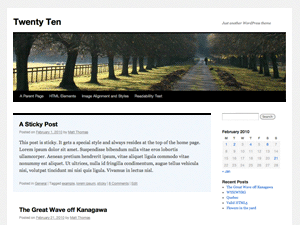
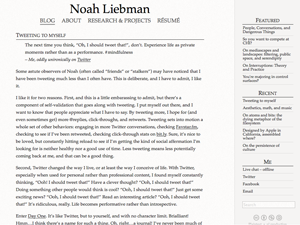
Dynamic menu system, separate files for sidebar and loop. Author, screenshot.

diff --git a/style.css b/style.css
@@ -1,3 +1,14 @@
+/*
+Theme Name: Plaintext
+Theme URI: https://github.com/Noleli/Plaintext/
+Author: Noah Liebman
+Author URI: http://noahliebman.com
+Version: 1.1
+License: Creative Commons Attribution Noncommercial Share Alike
+License URI: http://creativecommons.org/licenses/by-nc-sa/3.0/us/
+Tags: light, white, black, two-columns, right-sidebar, fixed-width, custom-menu, editor-style, theme-options 
+*/
+
 body
 {
 	background: #FCFBFA;
@@ -219,26 +230,26 @@ a
 	text-decoration: none;
 }
 
-#head ul.pages
+#head ul.menu
 {
 	text-align: center;
 	margin-top: 5px;
 	margin-bottom: 5px;
 }
 
-#head ul.pages li
+#head ul.menu li
 {
 	display: inline;
 	padding-right: 18px;
 }
 
-#head ul.pages li:last-child
+#head ul.menu li:last-child
 {
 	display: inline;
 	padding-right: 0px;
 }
 
-#head ul.pages li a
+#head ul.menu li a
 {
 	color: #595959;
 	text-decoration: none;
@@ -255,23 +266,23 @@ a
   font-variant: small-caps;
 }
 
-#head ul#parent_pages li a
+#head ul#menu-primary li a
 {
 	text-transform: uppercase;
 	font-size: 18px;
 }
 
-#head ul.pages li.current_page_item a
+#head ul.menu li.current_page_item a
 {
 	border-bottom: 2px solid #949494;
 }
 
-#head ul#parent_pages li.current_page_item a, #head ul.pages li.current_page_ancestor a
+#head ul#parent_pages li.current_page_item a, #head ul.menu li.current_page_ancestor a
 {
 	border-bottom: 3px solid #949494;
 }
 
-#head ul.pages li a:hover
+#head ul.menu li a:hover
 {
 	border-bottom: 3px solid #BABABA;
 }

diff --git a/loop.php b/loop.php
@@ -1,0 +1,78 @@
+<?php
+/**
+ * The loop that displays posts.
+ *
+ * The loop displays the posts and the post content.  See
+ * http://codex.wordpress.org/The_Loop to understand it and
+ * http://codex.wordpress.org/Template_Tags to understand
+ * the tags used in it.
+ *
+ * This can be overridden in child themes with loop.php or
+ * loop-template.php, where 'template' is the loop context
+ * requested by a template. For example, loop-index.php would
+ * be used if it exists and we ask for the loop with:
+ * <code>get_template_part( 'loop', 'index' );</code>
+ *
+ * @package WordPress
+ * @subpackage Twenty_Ten
+ * @since Twenty Ten 1.0
+ */
+?>
+
+<?php /* Display navigation to next/previous pages when applicable */ ?>
+
+<div class="grid_3 push_9">
+			<?php get_sidebar(); ?>
+		</div><!-- end grid_3 -->
+		<div class="grid_8 suffix_1 pull_3">
+			<div id="content_area">
+				<div id="head">
+					<h1><a href="<?php echo home_url( '/' ); ?>" title="<?php echo esc_attr( get_bloginfo( 'name', 'display' ) ); ?>" rel="home"><?php bloginfo( 'name' ); ?></a></h1>
+					<?php wp_nav_menu( array( 'container_class' => 'menu-header', 'theme_location' => 'primary' ) ); ?>
+					
+				</div><!-- end head -->
+				
+				<div id="content">
+					<?php while ( have_posts() ) : the_post(); ?>
+						<h1><a href="<?php the_permalink(); ?>"><?php the_title(); ?></a></h1>
+						<?php the_content(); ?>
+						
+						<?php if(!$is_page) : ?>
+							<div class="post_footer">
+								<div class="grid_2 alpha suffix_4">
+									<p class="date"><a href="<?php the_permalink(); ?>"><?php echo get_the_date(); ?></a></p>
+								</div>
+								<div class="grid_2 omega">
+									<p class="comment_count"><a href="<?php comments_link(); ?>"><?php comments_number('Comment'); ?></a></p>
+								</div>
+								<?php
+									$withcomments = is_single();
+									if($withcomments)
+									{
+										echo('<div class="clear"></div>');
+										//echo('<div class="prefix_1 grid_6 suffix_5">');
+										comments_template();
+										//echo('</div> <!-- end comment grid container -->');
+									}
+									
+								?>
+							</div>
+							
+						<?php endif; ?>
+						
+						
+					<?php endwhile; // End the loop. Whew. ?>
+					
+					<div id="bottom_nav">
+						<div class="grid_2 alpha suffix_4">
+							<p><?php previous_posts_link("«"); ?></p>
+						</div>
+						<div class="grid_2 omega">
+							<p class="next_link"><?php next_posts_link("»"); ?></p>
+						</div>
+						<div class="bottom_dot">■</div>
+					</div>
+					
+				</div><!-- end content -->
+			</div> <!-- end content_container -->
+		</div><!-- end grid_8 -->

diff --git a/page.php b/page.php
@@ -1,16 +1,15 @@
 <?php
 /**
- * The main template file.
+ * The template for displaying all pages.
  *
- * This is the most generic template file in a WordPress theme
- * and one of the two required files for a theme (the other being style.css).
- * It is used to display a page when nothing more specific matches a query. 
- * E.g., it puts together the home page when no home.php file exists.
- * Learn more: http://codex.wordpress.org/Template_Hierarchy
+ * This is the template that displays all pages by default.
+ * Please note that this is the WordPress construct of pages
+ * and that other 'pages' on your WordPress site will use a
+ * different template.
  *
  * @package WordPress
- * @subpackage Plaintext
- * @since Plaintext 1.0
+ * @subpackage PlainText
+ * @since PlainText 1.0
  */
 
 get_header(); ?>
@@ -23,7 +22,7 @@ get_header(); ?>
 			 * If you want to overload this in a child theme then include a file
 			 * called loop-index.php and that will be used instead.
 			 */
-			 get_template_part( 'loop', 'index' );
+			 get_template_part( 'loop', 'page' );
 			?>
 	</div> <!-- end container_12 -->
 	<?php

diff --git a/category.php b/category.php
@@ -1,0 +1,34 @@
+<?php
+/**
+ * The template for displaying Category Archive pages.
+ *
+ * @package WordPress
+ * @subpackage PlainText
+ * @since PlainText 1.0
+ */
+
+get_header(); ?>
+
+		<div id="container">
+			<div id="content" role="main">
+
+				<h1 class="page-title"><?php
+					printf( __( 'Category Archives: %s', 'twentyten' ), '<span>' . single_cat_title( '', false ) . '</span>' );
+				?></h1>
+				<?php
+					$category_description = category_description();
+					if ( ! empty( $category_description ) )
+						echo '<div class="archive-meta">' . $category_description . '</div>';
+
+				/* Run the loop for the category page to output the posts.
+				 * If you want to overload this in a child theme then include a file
+				 * called loop-category.php and that will be used instead.
+				 */
+				get_template_part( 'loop', 'category' );
+				?>
+
+			</div><!-- #content -->
+		</div><!-- #container -->
+
+<?php get_sidebar(); ?>
+<?php get_footer(); ?>

diff --git a/sidebar.php b/sidebar.php
@@ -1,0 +1,16 @@
+<?php
+/**
+ * The Sidebar containing the primary and secondary widget areas.
+ *
+ * @package WordPress
+ * @subpackage PlainText
+ * @since PlainText 1.0
+ */
+?>
+<div id="sidebar">
+	<?php dynamic_sidebar('sidebar'); ?>
+	<div id="footer">
+		<p><a href="http://creativecommons.org/licenses/by-nc-sa/3.0/us/"><img src="<?php bloginfo('template_directory'); ?>/images/cc-by-nc-sa.png" alt="Creative Commons Attribution-NonCommercial-ShareAlike"></a></p>
+		<p><a href="https://github.com/Noleli/Plaintext">Plaintext</a>, a <a href="http://noahliebman.com/">.nl</a> production</p>
+	</div>
+</div><!-- end sidebar -->

diff --git a/functions.php b/functions.php
@@ -16,6 +16,11 @@ function widget_mytheme_search() {
 if ( function_exists('register_sidebar_widget') )
     register_sidebar_widget(__('Search'), 'widget_mytheme_search');
 
+// This theme uses wp_nav_menu() in one location.
+register_nav_menus( array(
+	'primary' => __( 'Primary Navigation', 'twentyten' ),
+) );
+
 // comment layout
 function plaintext_comment($comment, $args, $depth) {
 	$GLOBALS['comment'] = $comment;
